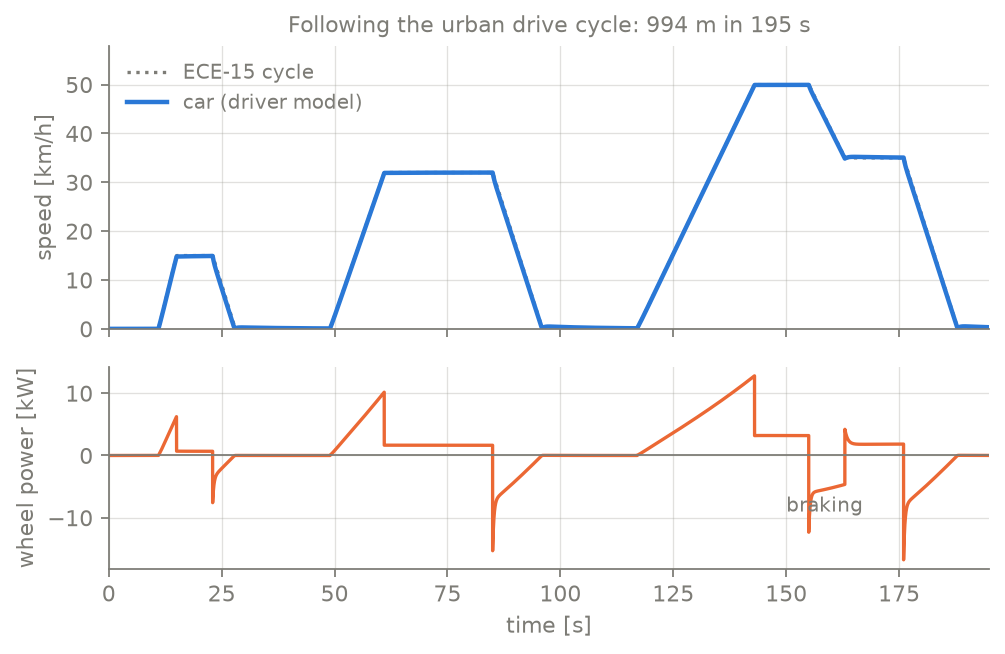
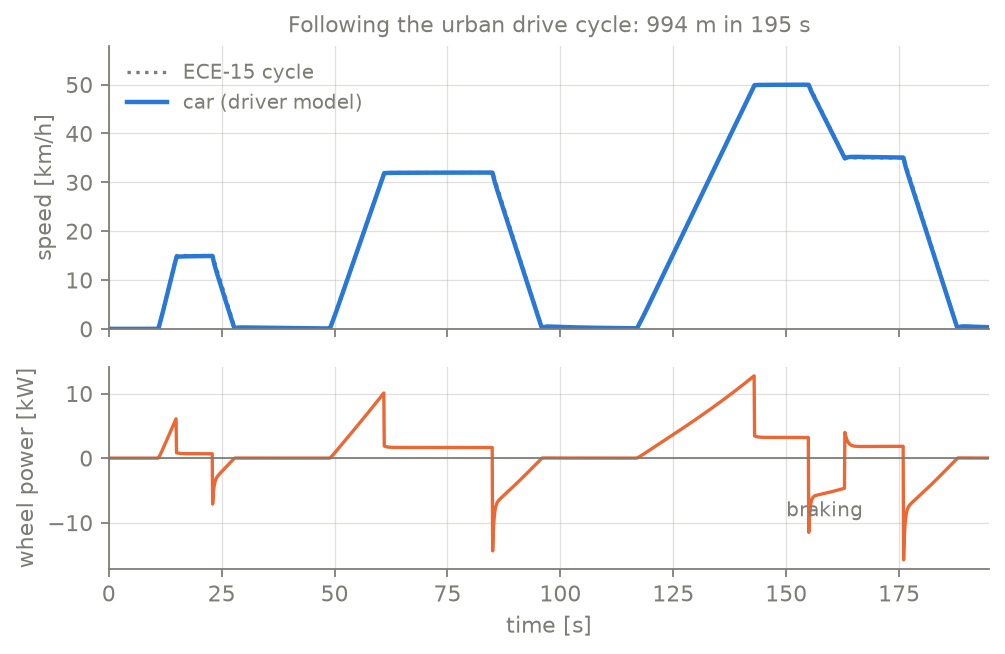
Fix CI timeout of the drive cycle example; fail checks on NaN
- Drive cycle runs with a 0.1 s step (3 s instead of 18 s); the driver
  PID's unused derivative filter gets N = 1 so it is not stiff
- Test checks now fail when the signal contains NaN/inf (bounds passed)
- Plan: investigate the clamped-PID sliding mode sensitivity

Claude-Session: https://claude.ai/code/session_01VarAEesyLXHz6dcSdpzjd5

diff --git a/examples/drive_cycle.py b/examples/drive_cycle.py
@@ -71,7 +71,8 @@ def build_driver() -> Subsystem:
     a_ref = d.add(Inport(port=2), name="a_ref")
     v = d.add(Inport(port=3), name="v")
     err = d.add(Sum(signs="+-"), name="speed_error")
-    pi = d.add(PID(P="Kp_driver", I="Ki_driver"), name="driver_pi")
+    # D = 0, so the derivative filter is unused; N = 1 keeps its state slow enough for a 0.1 s step.
+    pi = d.add(PID(P="Kp_driver", I="Ki_driver", N=1.0), name="driver_pi")
     ff = d.add(Gain(gain="m / F_max"), name="feed_forward")
     total = d.add(Sum(signs="++"), name="pedal_sum")
     pedal = d.add(Saturation(upper=1.0, lower=-1.0), name="pedal")
@@ -167,7 +168,7 @@ def build() -> Diagram:
     d = Diagram("drive_cycle")
     d.settings.t_final = 195.0
     d.settings.solver = "rk4"
-    d.settings.step = 0.01
+    d.settings.step = 0.1
     ws = d.workspace
     ws.add(Variable("m", 1300.0, "Vehicle mass incl. driver", "kg"))
     ws.add(Variable("cd_A", 0.30 * 2.2, "Drag coefficient × frontal area", "m²"))

diff --git a/tests/test_testing.py b/tests/test_testing.py
@@ -144,3 +144,16 @@ def test_saved_tests_in_file_roundtrip(tmp_path) -> None:  # type: ignore[no-unt
     d.tests.append(_case())
     save(d, tmp_path / "m")
     assert load(tmp_path / "m.nervus").tests[0].inputs["setpoint"](2.0)[0] == 2.0
+
+
+def test_checks_fail_on_nan() -> None:
+    import numpy as np
+
+    from nervus.core import Check
+    from nervus.sim.result import SimResult, SimStats
+    from nervus.testing import evaluate_check
+
+    t = np.array([0.0, 1.0, 2.0])
+    res = SimResult(t, {"x:0": np.array([[0.0], [np.nan], [np.nan]])}, {}, {}, SimStats("rk4", 0.1, 3, 3, 2.0))
+    r = evaluate_check(Check("bounds", "x", {"lower": -1.0, "upper": 1.0}), res)
+    assert not r.passed and "t = 1" in r.message

diff --git a/src/nervus/testing.py b/src/nervus/testing.py
@@ -69,6 +69,9 @@ def evaluate_check(check: Check, res: SimResult, base_dir: Path | None = None) -
     except KeyError:
         return CheckResult(check, False, f"no signal named {check.signal!r}")
     a = check.args
+    if check.kind != "baseline" and not np.all(np.isfinite(np.asarray(data, dtype=float))):
+        k = int(np.argmax(~np.isfinite(np.asarray(data, dtype=float)).reshape(len(res.t), -1).all(axis=1)))
+        return CheckResult(check, False, f"the signal is not a finite number (NaN or inf) from t = {res.t[k]:g}")
     if check.kind == "bounds":
         t, y = _window(res, data, check)
         lo, hi = float(a.get("lower", -np.inf)), float(a.get("upper", np.inf))

diff --git a/plan.md b/plan.md
@@ -199,6 +199,8 @@ tests/
       limits, PID limits/clamping), direction-aware events and a chattering (Zeno) guard
 - [ ] Integrator external reset and saturation ports
 - [ ] Algebraic loop solver (optional), with warnings
+- [ ] Investigate: a clamped continuous PID with D = 0 chatters (Zeno guard, 30 s) when its unused derivative
+      filter state is frozen, but not when it moves: make the sliding mode at the limit robust
 - [x] Simulation stop block and assertions
 - [x] First performance pass: precomputed execution tables, scalar fast paths (~25 % faster)
 - [ ] Performance: avoid per-step Python overhead (vectorised execution, Numba, or simulate the generated C:
